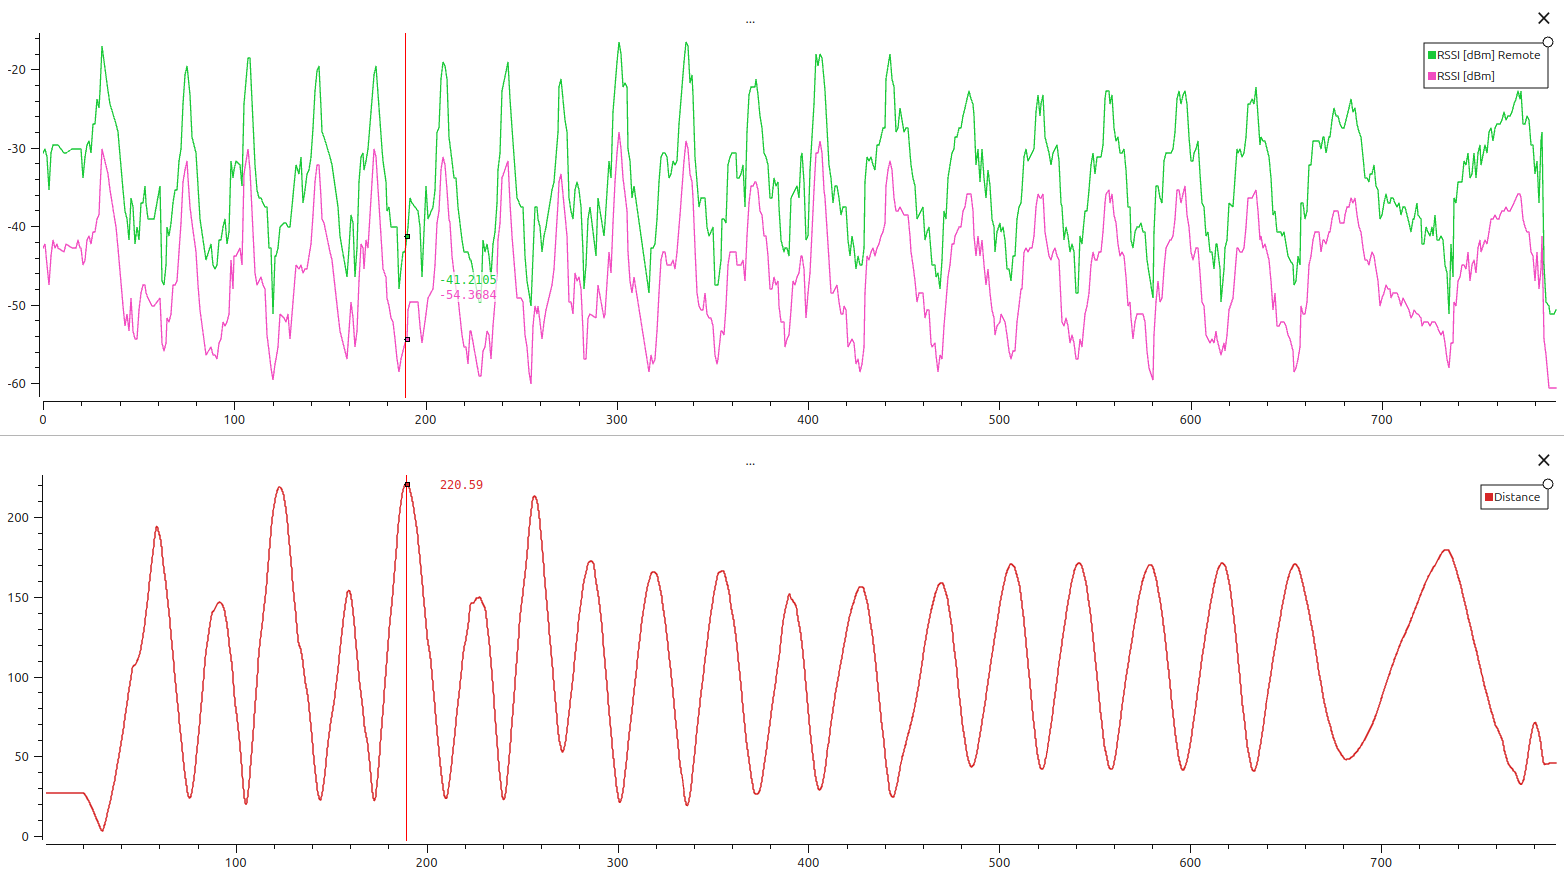
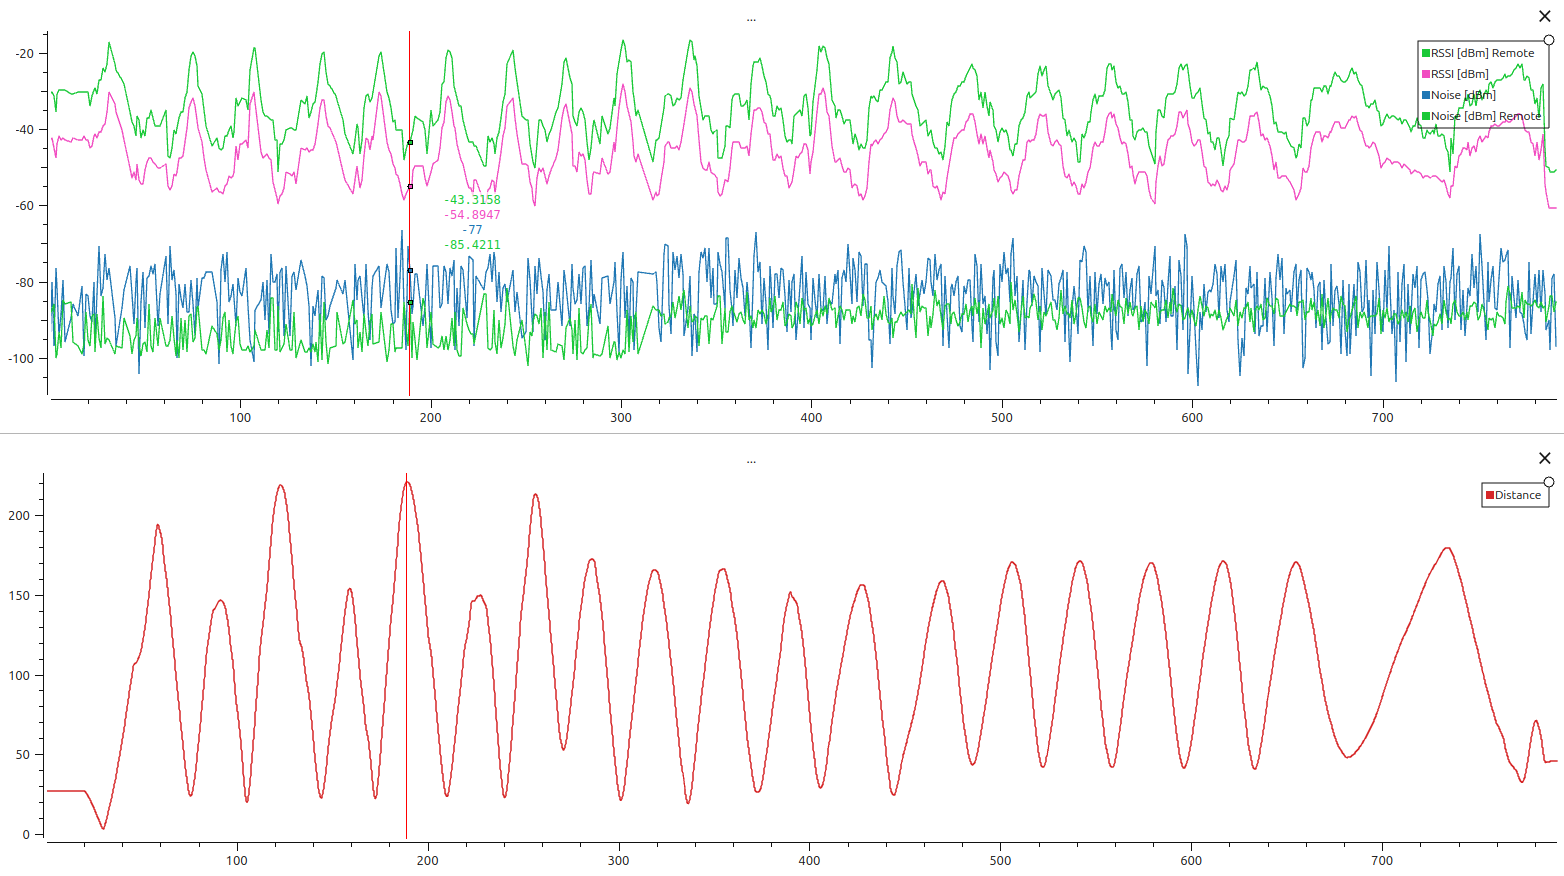
Improve description of Noise measurements.

diff --git a/avionics/TFSIK01/index.md b/avionics/TFSIK01/index.md
@@ -134,13 +134,31 @@ Download the latest [firmware release](https://github.com/ThunderFly-aerospace/S
 
 The SiK modem firmware provides telemetry signal strength data (RSSI) that can be visualized in Ground Control Station software such as Mission Planner or QGroundControl. Two RSSI values are reported:
 
-    * Local RSSI: signal strength received by the local modem.
-    * Remote RSSI: signal strength received by the remote modem.
+  * Local RSSI: signal strength received by the local modem.
+  * Remote RSSI: signal strength received by the remote modem.
+  * Local Noise: The noise floor being received in the aircraft.
+  * Remote Noise: The nooise level being received on the ground.
+
 
 Monitoring both values provides insight into the quality and symmetry of the communication link as is demonstrated in the following graph. As seen in the figure, the signal strength for TFSIK01 decreases almost smoothly with increasing distance, making it easier to predict link performance and diagnose issues caused by interference or configuration problems.
 
 ![TFSIK01 PX4 RSSI recording during flight](./TFSIK01_RSSI_distance.png)
 
 Thanks to dual antenna diversity system, the TFSIK01 maintains stable signal levels even when the UAV changes orientation. Unlike conventional modems where antenna directionality causes fluctuations, the TFSIK01  switches between two antennas to maintain the best signal. The used [PlotJuggler](https://plotjuggler.io/) layout [could be downloaded here](./Plot_juggler_RSSI.xml).
+
+A reliable telemetry link depends not only on received signal strength (RSSI), but also on the link signal-to-noise ratio (SNR), because the link could be degraded due to background noise.
+This is because the effective **SNR** (RSSI – Noise) becomes too small for reliable demodulation and  basically if the RSSI and background noise level (Noise) meets in the graph, the radio link is lost.
+
+The recommended minimum SNR for a reliable MAVLink connection is approximately 10 dB. If the noise level increases (due to interference or hardware issues), the same RSSI may no longer be sufficient.
+
+The figure above shows both RSSI and Noise values from both ends of the link. If you encounter packet loss or poor range despite good RSSI values, examine the corresponding noise measurements.
+
+If SNR is consistently insufficient, consider:
+
+  - **Reducing interference**: improve RF shielding and move away modem and antenna from EMI emitting  devices such, power supplies, or switching regulators.
+  - **Lowering the air data rate**: slower rates improve link robustness and increase receiver sensitivity.
+  - **Using directional antennas** (especially on ground side) to improve gain and reject side noise.
+
+
 
 
